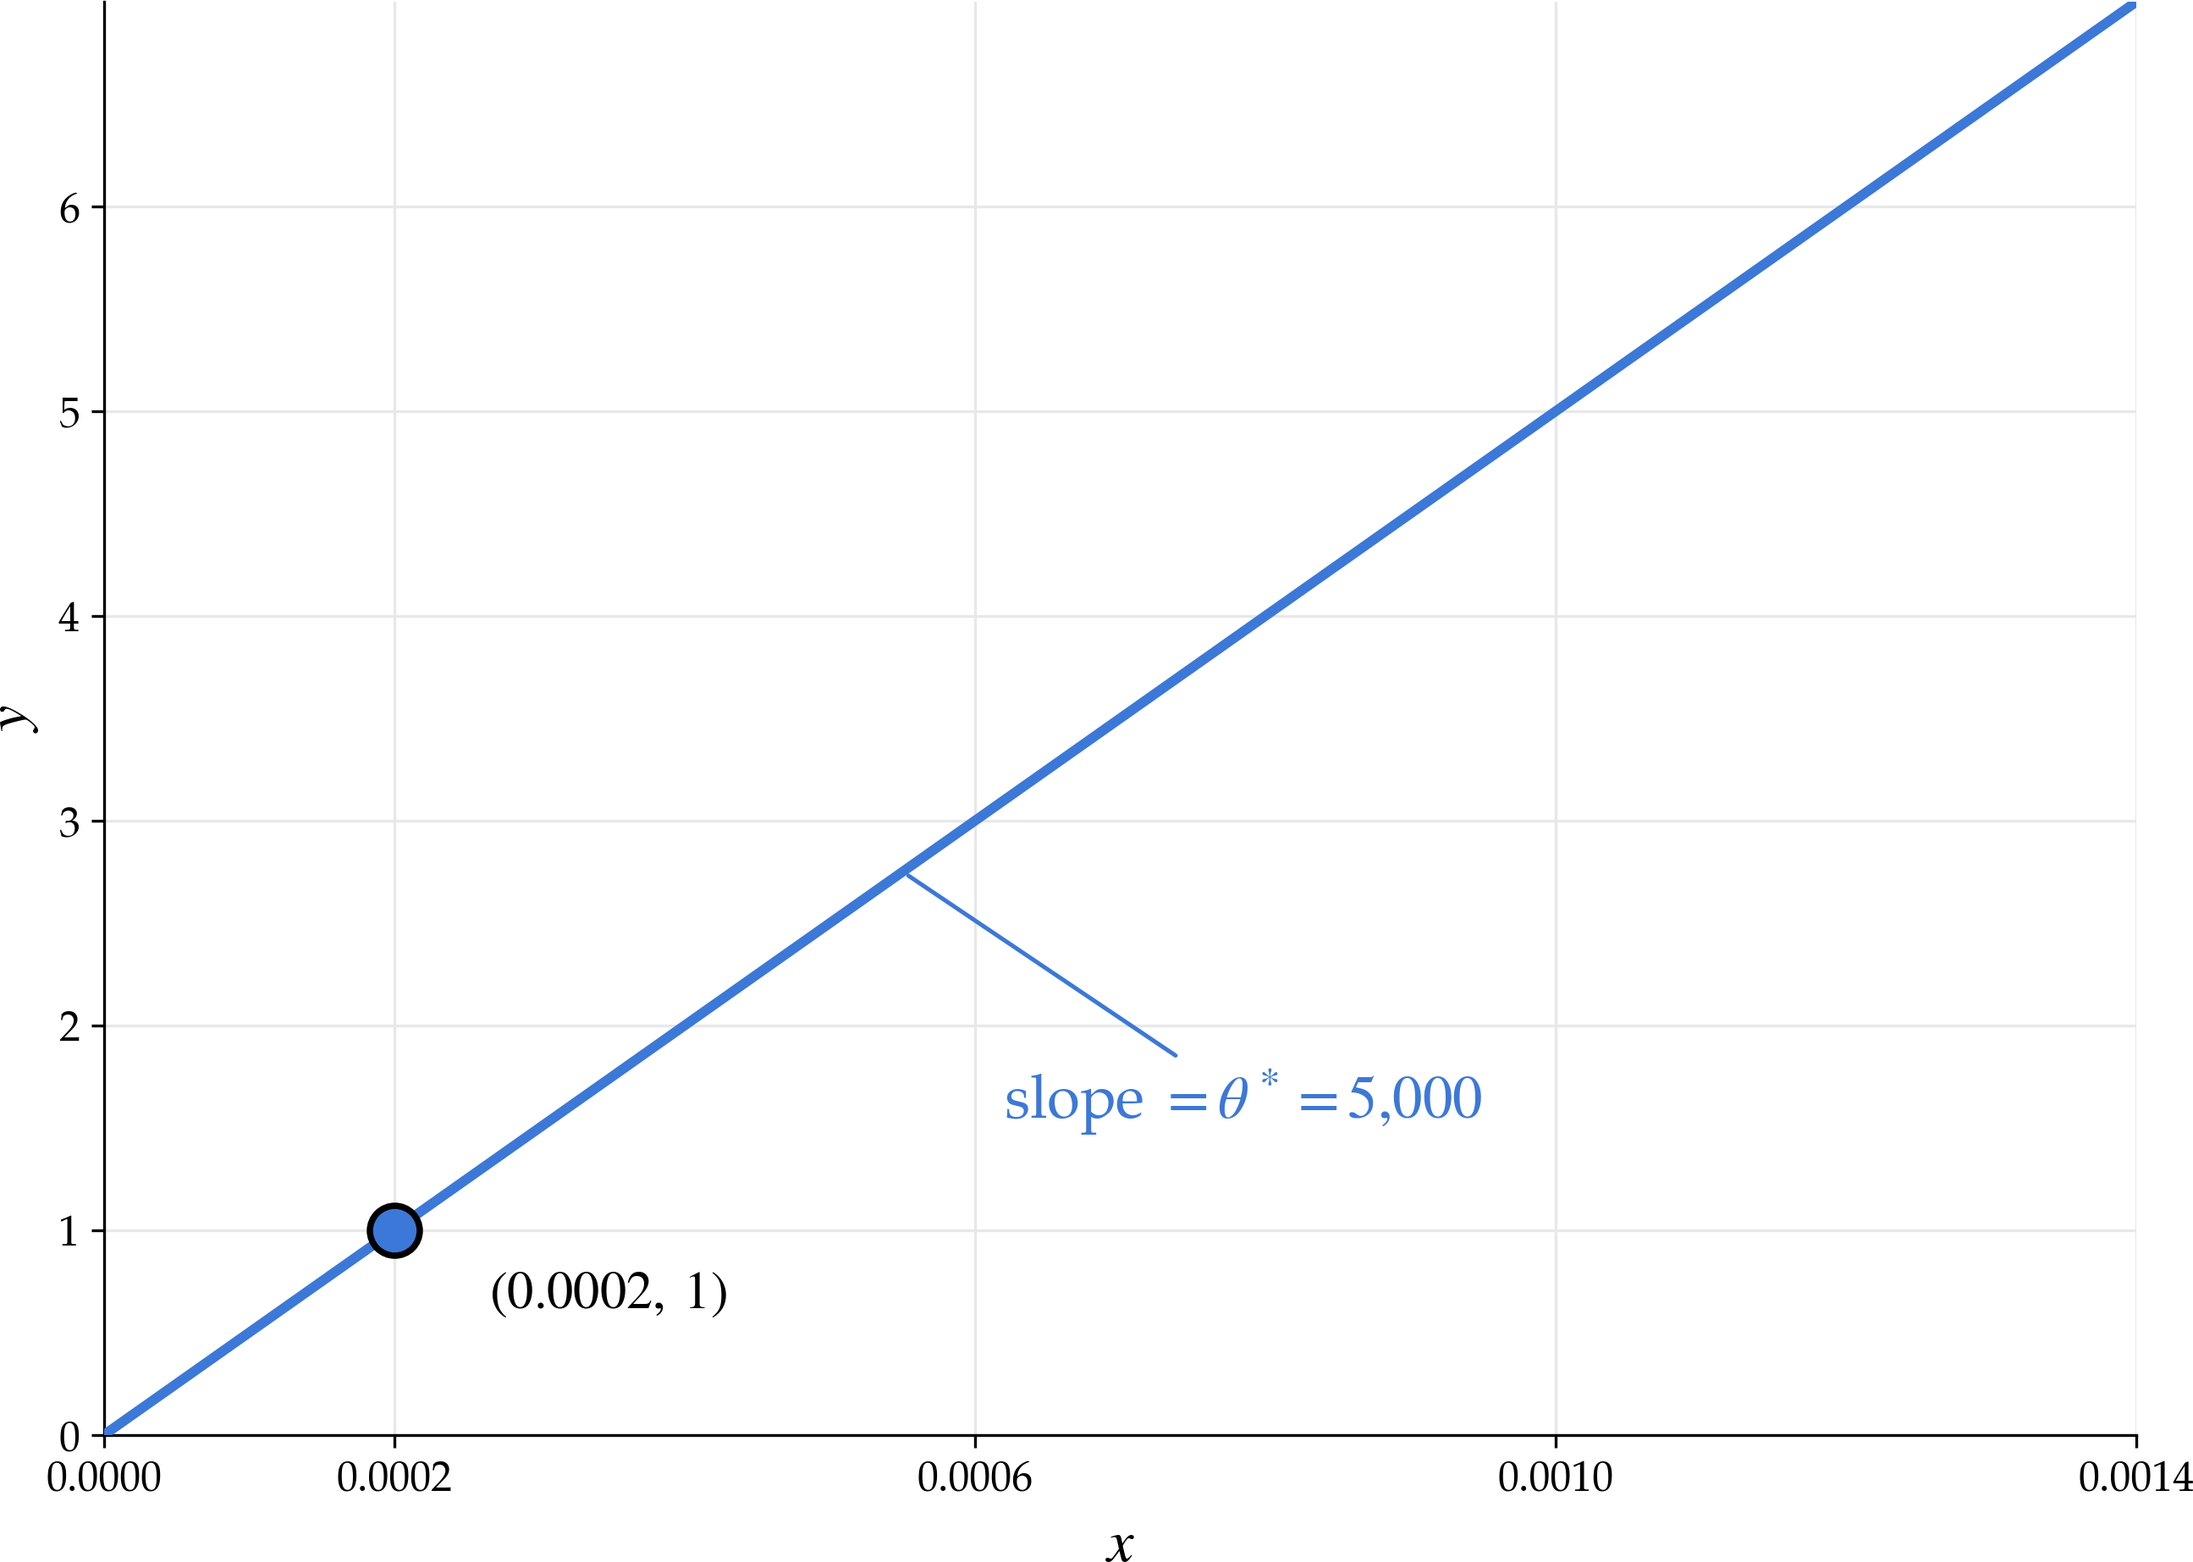
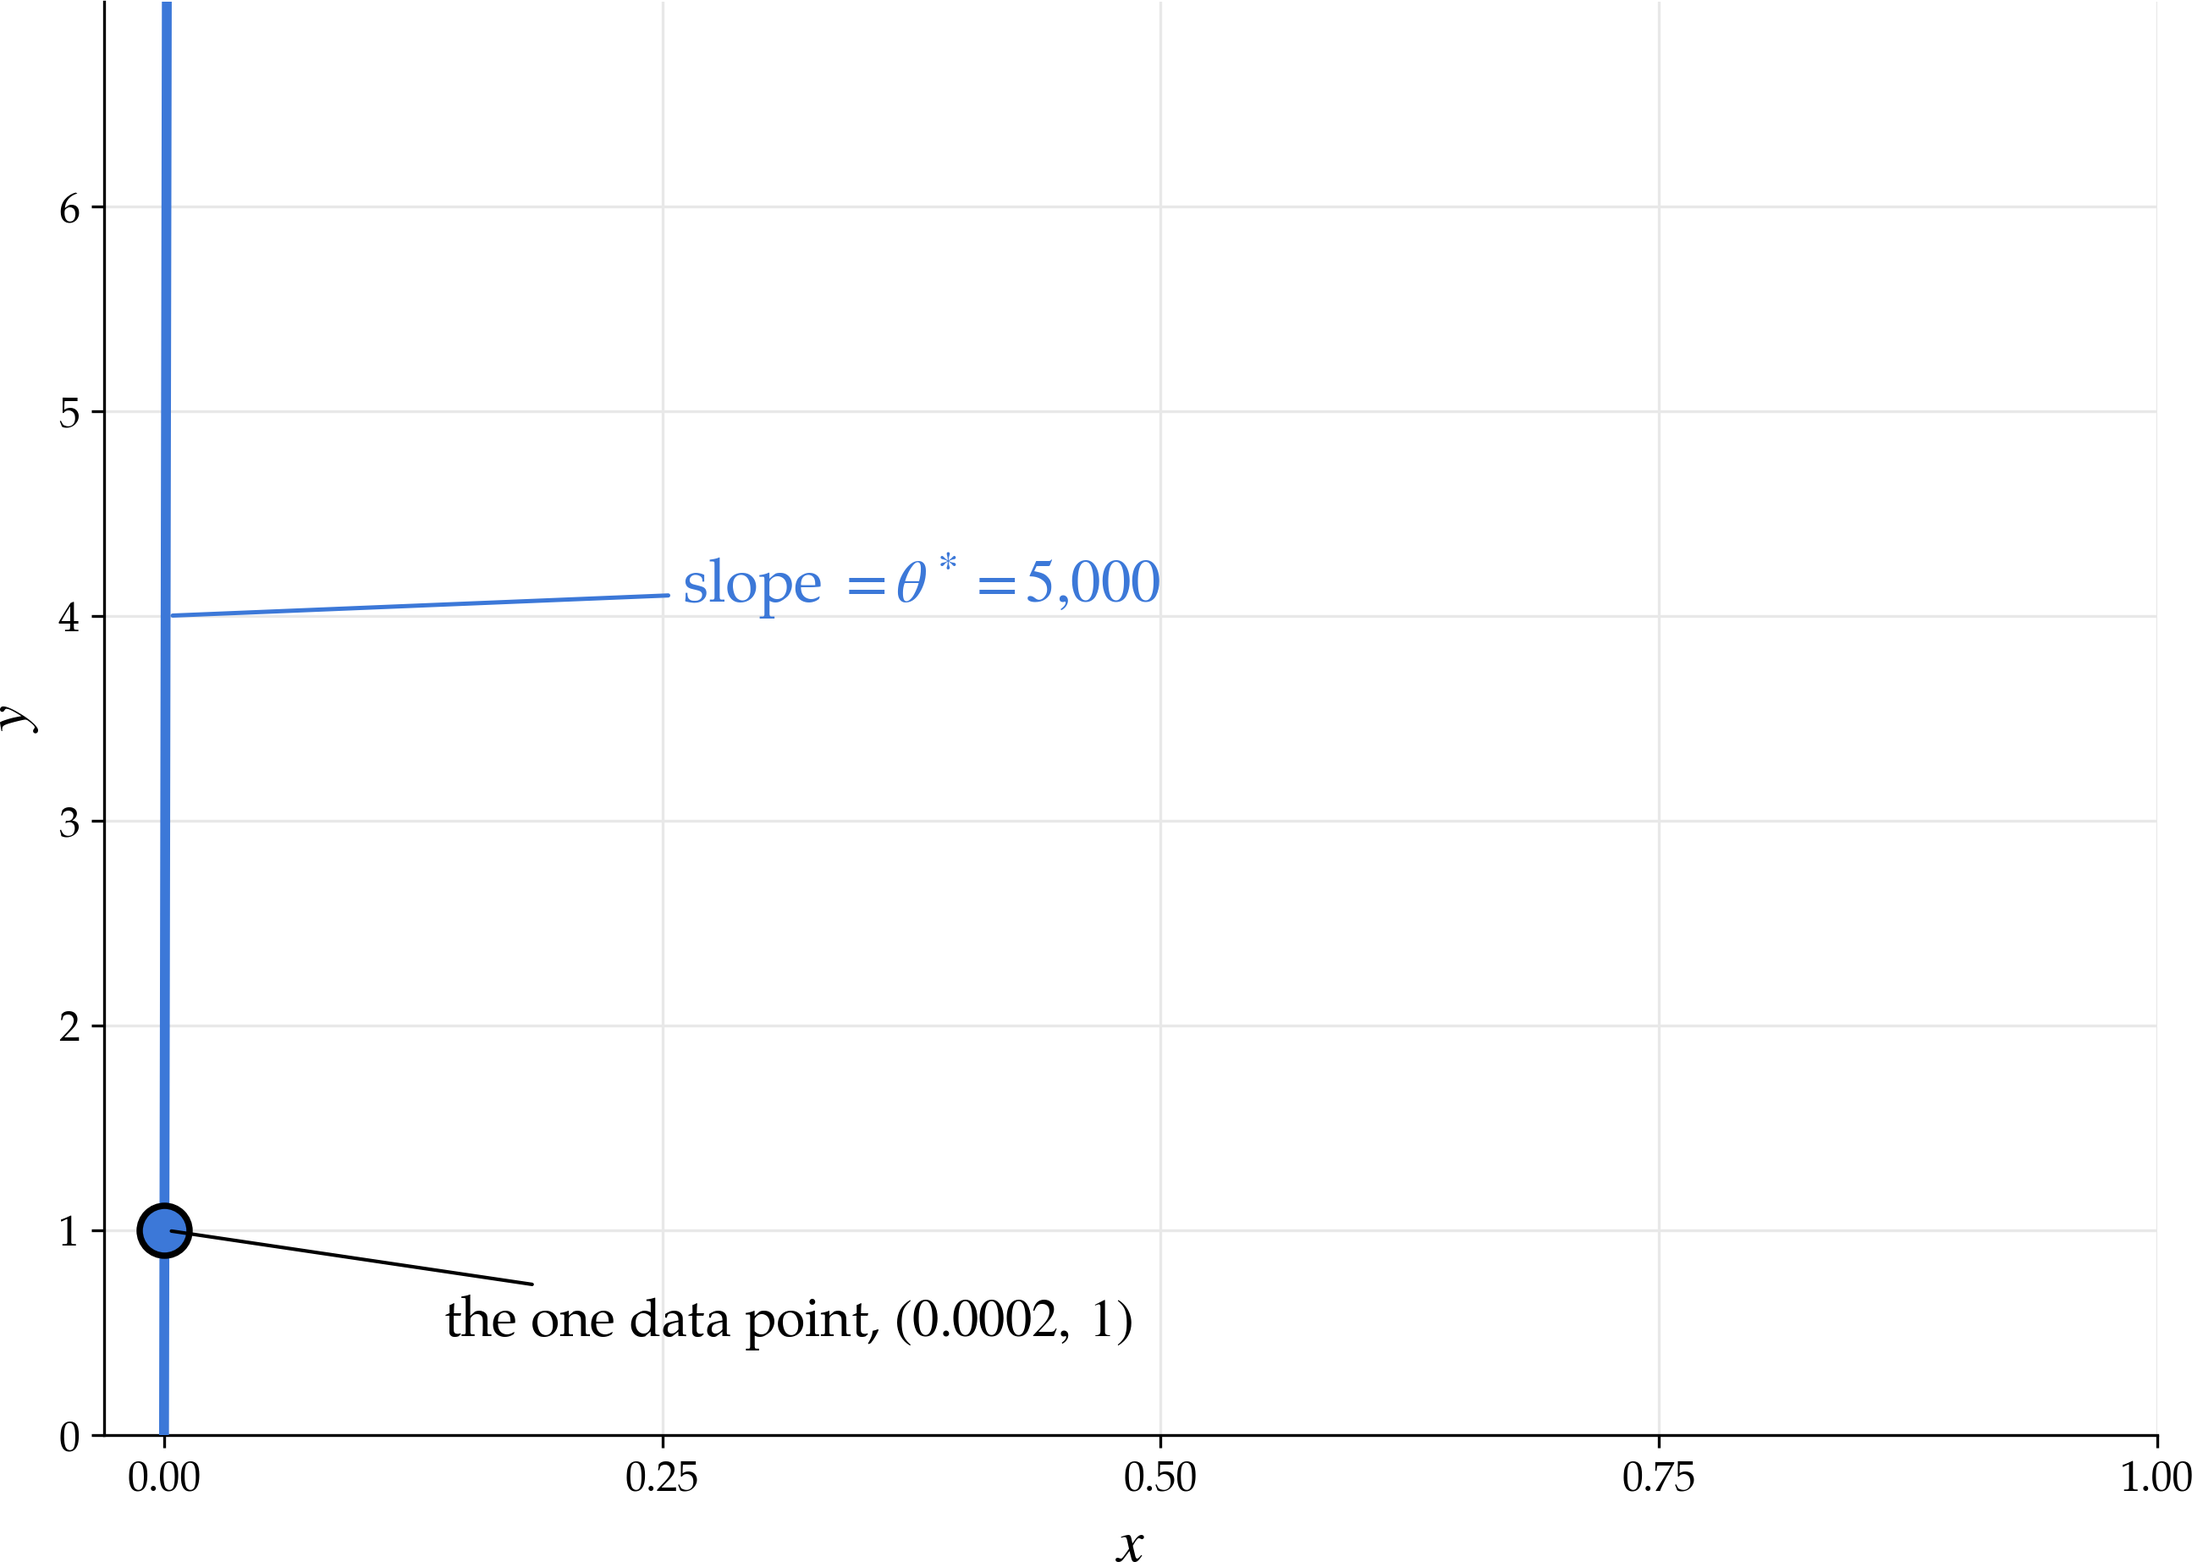
ridge: put the one-feature case on an ordinary x scale, and add the two-feature cause
The one-point pair now runs x from 0 to 1, a range anyone would actually plot, and
that choice is the argument. At this scale the fit is a vertical wall against the
y axis, and x = 0.0002 and x + 0.001 land 0.02% and 0.12% across, indistinguishable
to any viewer. The predictions they give differ by 5. The axis starts a hair below
zero so the markers clear the spine instead of rendering as half circles.

The two-feature pair explains why that happens rather than repeating that it does.
Four points sitting within 0.001 of the line x2 = x1, with an inset magnifying one
until the deviation is visible. Every scrap of information separating the two
features lives in a band a thousandth wide, so turning it into labels spanning 5
takes theta = (-999, 1000), and a measurement wobble of the same size is
indistinguishable from the signal.

Drawn in feature space, not 3D: over this data box the plane spans about +/-5000
in y and renders as a vertical wall, which is what the interactive demo on that
slide is for. Nudge numbers are asserted against the data, and note that nudging
every feature together moves the prediction by 0.001, not 1.0, because theta is
nearly orthogonal to that direction.

diff --git a/ridge/two-feature-collinear.py b/ridge/two-feature-collinear.py
@@ -1,0 +1,137 @@
+import matplotlib
+matplotlib.use('Agg')  # Use non-interactive backend for saving
+matplotlib.rcParams['font.family'] = 'serif'
+matplotlib.rcParams['font.serif'] = ['Palatino', 'Palatino Linotype', 'DejaVu Serif']
+matplotlib.rcParams['mathtext.fontset'] = 'stix'
+import matplotlib.pyplot as plt
+import numpy as np
+from PIL import Image
+
+# The two-feature case for FA26 lec02, drawn in feature space rather than in 3D.
+#
+#   two-feature-collinear.png   the four points, and how little separates them
+#   two-feature-nudge.png       the same, with a 0.001 measurement wobble drawn to
+#                               scale beside the deviation it would drown
+#
+# The one-feature slides show the consequence, a huge theta and a prediction that
+# swings. This shows the cause. The four points sit within 0.001 of the line
+# x2 = x1, so every scrap of information distinguishing the two features lives in a
+# band a thousandth wide. To turn that band into labels spanning 5, the fit has to
+# multiply it by about a thousand, which is precisely theta = (-999, 1000).
+#
+# A 3D picture of that plane is unreadable: over this data box it spans about
+# +/-5000 in y, so it renders as a vertical wall. The demo on the same slide is the
+# better place to watch the plane move. This is here to explain why it moves.
+X1 = np.array([-2.0, -1.0, 1.0, 2.0])
+X2 = np.array([-1.999, -1.001, 0.999, 2.001])
+Y = np.array([-1.0, -2.0, 0.0, 3.0])
+DEV = X2 - X1                        # +/- 0.001, the whole of the signal
+THETA = np.array([-999.0, 1000.0])
+DELTA = 0.001                        # a measurement wobble, the same size
+
+POINT, LINE, NUDGE, FAINT = '#3c78d8', '#9a9a9a', '#cc3b2f', '#e8e8e8'
+LIM = 2.6
+ZOOM_AT = 3                          # which point the inset magnifies
+
+
+def save(fig, out):
+    plt.tight_layout()
+    fig.savefig(out, dpi=300, transparent=True)
+    plt.close(fig)
+    img = Image.open(out)
+    bbox = img.getbbox()
+    if bbox:
+        cropped = img.crop(bbox)
+        cropped.save(out.replace('.png', '_cropped.png'))
+        print('  %-30s -> %s %s' % (out, out.replace('.png', '_cropped.png'), cropped.size))
+
+
+def frame():
+    """Feature space, with the four points and the line they almost lie on."""
+    fig, ax = plt.subplots(figsize=(9, 6.5))
+    ax.plot([-LIM, LIM], [-LIM, LIM], color=LINE, linestyle='--', dashes=(6, 4),
+            linewidth=1.6, zorder=2)
+    ax.annotate(r'$x_2 = x_1$', xy=(1.55, 1.55), xytext=(1.95, 1.15),
+                fontsize=16, color=LINE, va='center', zorder=5)
+    ax.scatter(X1, X2, s=200, color=POINT, edgecolors='black', linewidth=1.8, zorder=6)
+    ax.set_xlim(-LIM, LIM)
+    ax.set_ylim(-LIM, LIM)
+    ax.set_xlabel(r'$x_1$', fontsize=17)
+    ax.set_ylabel(r'$x_2$', fontsize=17)
+    ax.set_xticks([-2, -1, 0, 1, 2])
+    ax.set_yticks([-2, -1, 0, 1, 2])
+    ax.tick_params(labelsize=12)
+    ax.grid(True, color=FAINT, linewidth=0.8, zorder=0)
+    ax.set_aspect('equal')
+    for side in ('top', 'right'):
+        ax.spines[side].set_visible(False)
+    return fig, ax
+
+
+def inset(ax, show_nudge):
+    """Magnify one point until the deviation from the line is actually visible."""
+    cx, cy = X1[ZOOM_AT], X2[ZOOM_AT]
+    half = 0.0028
+    ins = ax.inset_axes([0.09, 0.58, 0.36, 0.36])
+    ins.plot([cx - half, cx + half], [cx - half, cx + half], color=LINE,
+             linestyle='--', dashes=(6, 4), linewidth=1.4, zorder=2)
+    ins.scatter([cx], [cy], s=150, color=POINT, edgecolors='black',
+                linewidth=1.6, zorder=6)
+    # the deviation, drawn as what it is: one thousandth
+    ins.annotate('', xy=(cx, cy), xytext=(cx, cx),
+                 arrowprops=dict(arrowstyle='<->', color='black', linewidth=1.8), zorder=7)
+    ins.annotate(r'$0.001$', xy=(cx, cx + DEV[ZOOM_AT] / 2), xytext=(cx + 0.0004, cx + 0.0005),
+                 fontsize=13, color='black', va='center', zorder=7)
+    if show_nudge:
+        ins.annotate('', xy=(cx + DELTA, cy), xytext=(cx, cy),
+                     arrowprops=dict(arrowstyle='->', color=NUDGE, linewidth=2.2), zorder=8)
+        ins.annotate('a $0.001$ wobble', xy=(cx + DELTA, cy), xytext=(cx - 0.0025, cy + 0.0013),
+                     fontsize=13, color=NUDGE, va='center', zorder=8)
+    ins.set_xlim(cx - half, cx + half)
+    ins.set_ylim(cx - half, cx + half * 1.4)
+    ins.set_xticks([]); ins.set_yticks([])
+    for s in ins.spines.values():
+        s.set_color('#bbbbbb')
+    ins.set_facecolor('white')
+    ins.set_title('zoomed in on one point', fontsize=13, color='#555555', pad=6)
+    # Connect the inset to the speck it came from. Without this the zoom floats and
+    # nothing says which of the four points it magnifies, or how small the region is.
+    ax.indicate_inset_zoom(ins, edgecolor='#999999', linewidth=1.2, alpha=0.9)
+    return ins
+
+
+def collinear(out):
+    fig, ax = frame()
+    inset(ax, show_nudge=False)
+    ax.annotate('every point sits within $0.001$ of the line',
+                xy=(0, -1.75), xytext=(0, -1.75), fontsize=16, color='black',
+                ha='center', va='center', zorder=7)
+    ax.annotate(r'so the fit needs $\theta \approx (-999,\; 1000)$ to use it',
+                xy=(0, -2.15), xytext=(0, -2.15), fontsize=16, color=POINT,
+                ha='center', va='center', zorder=7)
+    save(fig, out)
+
+
+def with_nudge(out):
+    fig, ax = frame()
+    inset(ax, show_nudge=True)
+    ax.annotate('a measurement wobble is the same size as the signal',
+                xy=(0, -1.75), xytext=(0, -1.75), fontsize=16, color='black',
+                ha='center', va='center', zorder=7)
+    ax.annotate(r'nudge $x_1$ by $0.001$ and the prediction moves by $1.0$',
+                xy=(0, -2.15), xytext=(0, -2.15), fontsize=16, color=NUDGE,
+                ha='center', va='center', zorder=7)
+    save(fig, out)
+
+
+print('figures:')
+collinear('two-feature-collinear.png')
+with_nudge('two-feature-nudge.png')
+pred = THETA @ np.vstack([X1, X2])
+assert np.allclose(pred, Y), 'theta does not reproduce the labels'
+print('  deviations x2 - x1 : %s' % np.round(DEV, 4).tolist())
+print('  ||theta||          : %.2f' % np.hypot(*THETA))
+for name, vec in (('x1 only  +0.001', np.array([DELTA, 0.0])),
+                  ('x2 only  +0.001', np.array([0.0, DELTA])),
+                  ('both     +0.001', np.array([DELTA, DELTA]))):
+    print('  %-16s -> prediction moves %+.4f' % (name, THETA @ vec))

diff --git a/ridge/one-point-sensitivity.py b/ridge/one-point-sensitivity.py
@@ -14,19 +14,25 @@ from PIL import Image
 #                         vertical gap that one thousandth opens in the prediction
 #
 # With n = 1, d = 1 and y = 1 the closed form collapses to theta* = 1/x. At
-# x = 0.0002 that is 5,000, which is a perfectly legal answer to a perfectly
-# well-posed problem: X is full column rank, nothing is singular. The second figure
-# is the cost of that legality. Moving x by 0.001, far below anything an instrument
-# would resolve, moves the prediction from 1 to 6. The gap is theta* times the
-# nudge, so the size of theta is the whole story.
+# x = 0.0002 that is 5,000, a perfectly legal answer to a perfectly well-posed
+# problem: X is full column rank and nothing is singular.
+#
+# x runs from 0 to 1, an ordinary feature range, and that choice is the argument.
+# At this scale the fitted line is a vertical wall against the y axis, and the two
+# x values, 0.0002 and 0.0012, land within a few pixels of each other. A viewer
+# cannot tell them apart. The predictions they produce differ by 5. Everything
+# interesting is therefore squeezed against the left edge, so the labels ride out
+# into the empty space on leaders, and the gap is measured by a bracket set to the
+# right rather than drawn at its true x, where the line already is.
 X_TRAIN, Y_TRAIN = 0.0002, 1.0
 THETA = 1.0 / X_TRAIN                 # 5,000
 DELTA = 0.001                         # the nudge, a thousandth
 X_NEW = X_TRAIN + DELTA               # 0.0012
 Y_NEW = THETA * X_NEW                 # 6.0
 
-LINE, POINT, NUDGE = '#3c78d8', '#3c78d8', '#cc3b2f'
-XMAX, YMAX = 0.0014, 7.0
+LINE, POINT, NUDGE, LEAD = '#3c78d8', '#3c78d8', '#cc3b2f', '#9a9a9a'
+XMAX, YMAX = 1.0, 7.0
+BRACKET = 0.30                        # where the gap is measured, out in clear space
 
 
 def save(fig, out):
@@ -42,20 +48,26 @@ def save(fig, out):
 
 
 def frame():
+    """The shared frame, so the two figures sit still on consecutive slides."""
     fig, ax = plt.subplots(figsize=(9, 6.5))
-    xs = np.linspace(0, XMAX, 200)
+    xs = np.linspace(0, XMAX, 400)
     ax.plot(xs, THETA * xs, color=LINE, linewidth=2.8, zorder=3)
     ax.scatter([X_TRAIN], [Y_TRAIN], s=200, color=POINT, edgecolors='black',
                linewidth=1.8, zorder=6)
-    # the slope is the answer the formula returned, so name it on the line itself
-    ax.annotate(r'slope $= \theta^* = 5{,}000$', xy=(0.00055, THETA * 0.00055),
-                xytext=(0.00062, 1.55), fontsize=17, color=LINE,
+    ax.annotate(r'slope $= \theta^* = 5{,}000$', xy=(0.0008, 4.0), xytext=(0.26, 4.15),
+                fontsize=17, color=LINE, va='center',
                 arrowprops=dict(arrowstyle='-', color=LINE, linewidth=1.2), zorder=7)
-    ax.set_xlim(0, XMAX)
+    ax.annotate(r'the one data point, $(0.0002,\; 1)$', xy=(X_TRAIN, Y_TRAIN),
+                xytext=(0.14, 0.55), fontsize=15, color='black', va='center',
+                arrowprops=dict(arrowstyle='-', color='black', linewidth=1.0), zorder=7)
+    # Start a hair left of zero. Both x values sit within a pixel of the axis, and
+    # against the spine itself the markers render as half circles, which reads as a
+    # drawing fault rather than as the point about scale.
+    ax.set_xlim(-0.03, XMAX)
     ax.set_ylim(0, YMAX)
     ax.set_xlabel(r'$x$', fontsize=17)
     ax.set_ylabel(r'$y$', fontsize=17)
-    ax.set_xticks([0, 0.0002, 0.0006, 0.0010, 0.0014])
+    ax.set_xticks([0, 0.25, 0.5, 0.75, 1.0])
     ax.set_yticks([0, 1, 2, 3, 4, 5, 6])
     ax.tick_params(labelsize=12)
     ax.grid(True, color='#e8e8e8', linewidth=0.8, zorder=0)
@@ -67,30 +79,27 @@ def frame():
 def fit_only(out):
     """The point, and the line the closed form hands back through it."""
     fig, ax = frame()
-    ax.annotate(r'$(0.0002,\; 1)$', xy=(X_TRAIN, Y_TRAIN), xytext=(0.000265, 0.62),
-                fontsize=15, color='black', zorder=7)
     save(fig, out)
 
 
 def with_nudge(out):
     """The same line, and what one thousandth of x does to the prediction."""
     fig, ax = frame()
-    ax.annotate(r'$(0.0002,\; 1)$', xy=(X_TRAIN, Y_TRAIN), xytext=(0.000265, 0.62),
-                fontsize=15, color='black', zorder=7)
-    # where the nudged x lands on the same line
     ax.scatter([X_NEW], [Y_NEW], s=200, facecolors='white', edgecolors=NUDGE,
                linewidth=2.4, zorder=6)
-    ax.plot([X_NEW, X_NEW], [0, Y_NEW], color=NUDGE, linestyle='--',
-            dashes=(4, 3), linewidth=1.6, zorder=4)
-    # the gap itself, measured from the old prediction up to the new one
-    ax.annotate('', xy=(X_NEW, Y_NEW), xytext=(X_NEW, Y_TRAIN),
+    # The two x values are a few pixels apart at this scale, so say so rather than
+    # pretend the picture can separate them.
+    ax.annotate(r'$x+0.001$ lands here too', xy=(X_NEW, Y_NEW), xytext=(0.16, 6.55),
+                fontsize=15, color=NUDGE, va='center',
+                arrowprops=dict(arrowstyle='-', color=NUDGE, linewidth=1.0), zorder=7)
+    # Faint leaders carry the two heights out to where the gap can be drawn.
+    for yy in (Y_TRAIN, Y_NEW):
+        ax.plot([X_NEW, BRACKET], [yy, yy], color=LEAD, linestyle='--',
+                dashes=(4, 3), linewidth=1.2, zorder=2)
+    ax.annotate('', xy=(BRACKET, Y_NEW), xytext=(BRACKET, Y_TRAIN),
                 arrowprops=dict(arrowstyle='<->', color=NUDGE, linewidth=2.4), zorder=7)
-    ax.plot([X_TRAIN, X_NEW], [Y_TRAIN, Y_TRAIN], color='#999999',
-            linestyle='--', dashes=(4, 3), linewidth=1.3, zorder=2)
-    ax.annotate(r'prediction moves by $5$', xy=(X_NEW, 3.4), xytext=(0.00050, 3.9),
-                fontsize=17, color=NUDGE, ha='left', zorder=7)
-    ax.annotate(r'$x + 0.001$', xy=(X_NEW, 0), xytext=(0.001045, 0.22),
-                fontsize=15, color=NUDGE, zorder=7)
+    ax.annotate(r'prediction moves by $5$', xy=(BRACKET, 3.5), xytext=(BRACKET + 0.04, 3.5),
+                fontsize=17, color=NUDGE, va='center', ha='left', zorder=7)
     save(fig, out)
 
 
@@ -101,3 +110,5 @@ assert abs(THETA - 5000.0) < 1e-9 and abs(Y_NEW - 6.0) < 1e-9
 print('  x = %g, theta* = 1/x = %s' % (X_TRAIN, '{:,.0f}'.format(THETA)))
 print('  nudging x by %g moves the prediction from %g to %g, a gap of %g'
       % (DELTA, Y_TRAIN, Y_NEW, Y_NEW - Y_TRAIN))
+print('  on a 0 to 1 axis the two x values are %.3f%% and %.3f%% across'
+      % (100 * X_TRAIN / XMAX, 100 * X_NEW / XMAX))
